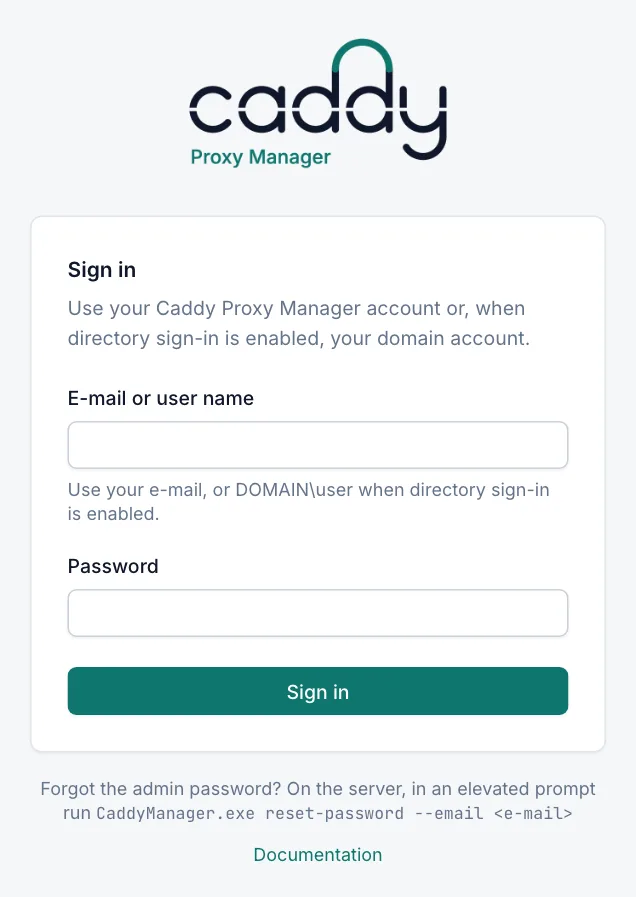
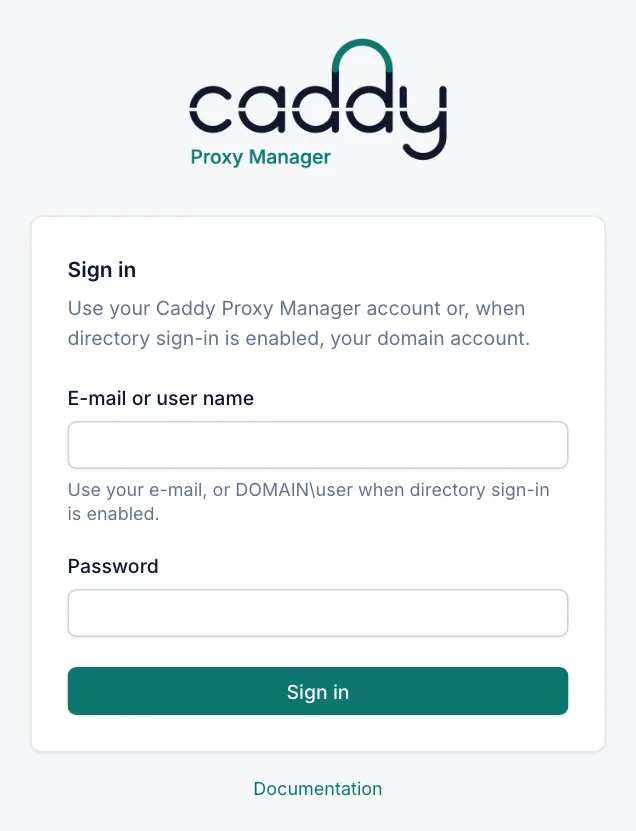
fix(web): sign-in page no longer shows the password-reset command
Anyone who could reach the sign-in page saw how to reset the admin password. The page now only links to the
documentation, which already covers the reset (Getting started, Users, Troubleshooting, Command line). The README's
Troubleshooting row links to the forgotten-password section; sign-in screenshots regenerated.

diff --git a/web/src/pages/LoginPage.tsx b/web/src/pages/LoginPage.tsx
@@ -55,15 +55,9 @@ export default function LoginPage() {
       title="Sign in"
       description="Use your Caddy Proxy Manager account or, when directory sign-in is enabled, your domain account."
       footer={
-        <>
-          Forgot the admin password? On the server, in an elevated prompt run{' '}
-          <span className="mono whitespace-nowrap">CaddyManager.exe reset-password --email &lt;e-mail&gt;</span>
-          <span className="mt-3 block">
-            <Link to="/docs" className="text-accent-text hover:underline">
-              Documentation
-            </Link>
-          </span>
-        </>
+        <Link to="/docs" className="text-accent-text hover:underline">
+          Documentation
+        </Link>
       }
     >
       <form onSubmit={submit} className="flex flex-col gap-4" noValidate>

diff --git a/README.md b/README.md
@@ -90,7 +90,7 @@ Markdown files in [docs/](docs/README.md):
 | [Users & roles](docs/users.md) and [Active Directory sign-in](docs/directory-sign-in.md) | Roles, LDAP, password reset |
 | [Backup and restore](docs/backup-restore.md) | Scheduled backups, restore, moving to another server |
 | [Command line & tray icon](docs/cli.md) | `CaddyManager.exe` commands |
-| [Troubleshooting](docs/troubleshooting.md) | Logs, common failures and fixes |
+| [Troubleshooting](docs/troubleshooting.md) | Logs, common failures and fixes, [forgotten admin password](docs/troubleshooting.md#forgot-the-admin-password) |
 | [Security & hardening](docs/security.md) | Security model, hardening checklist |
 | [Development](docs/development.md) | Building, testing, architecture (not part of the in-app docs) |
 
